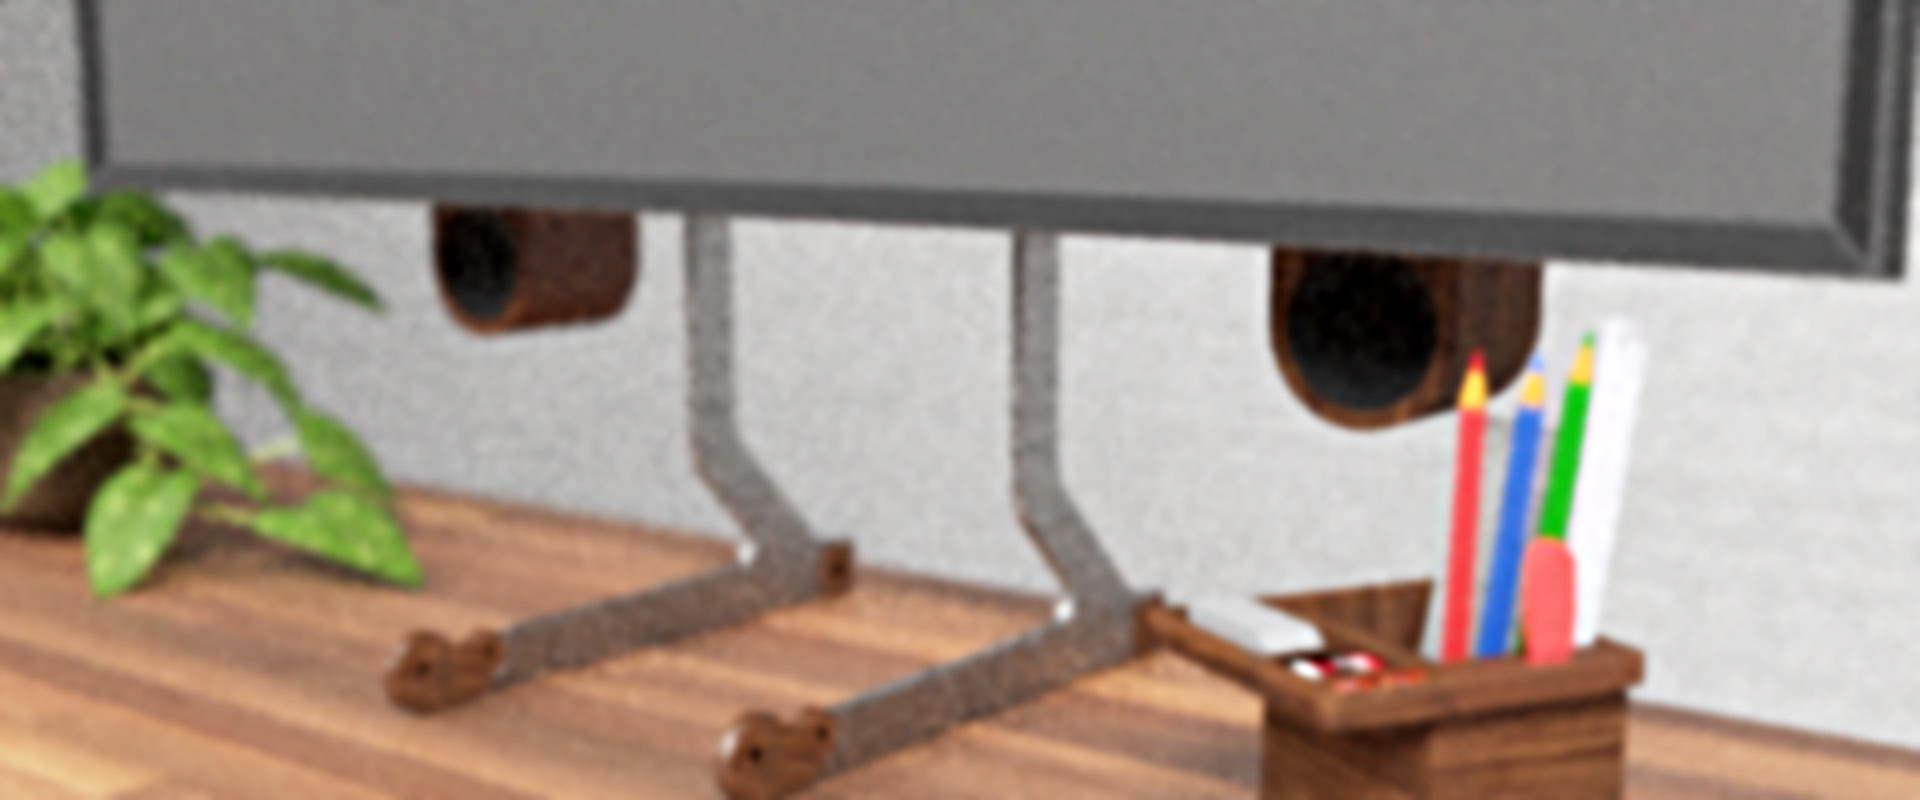
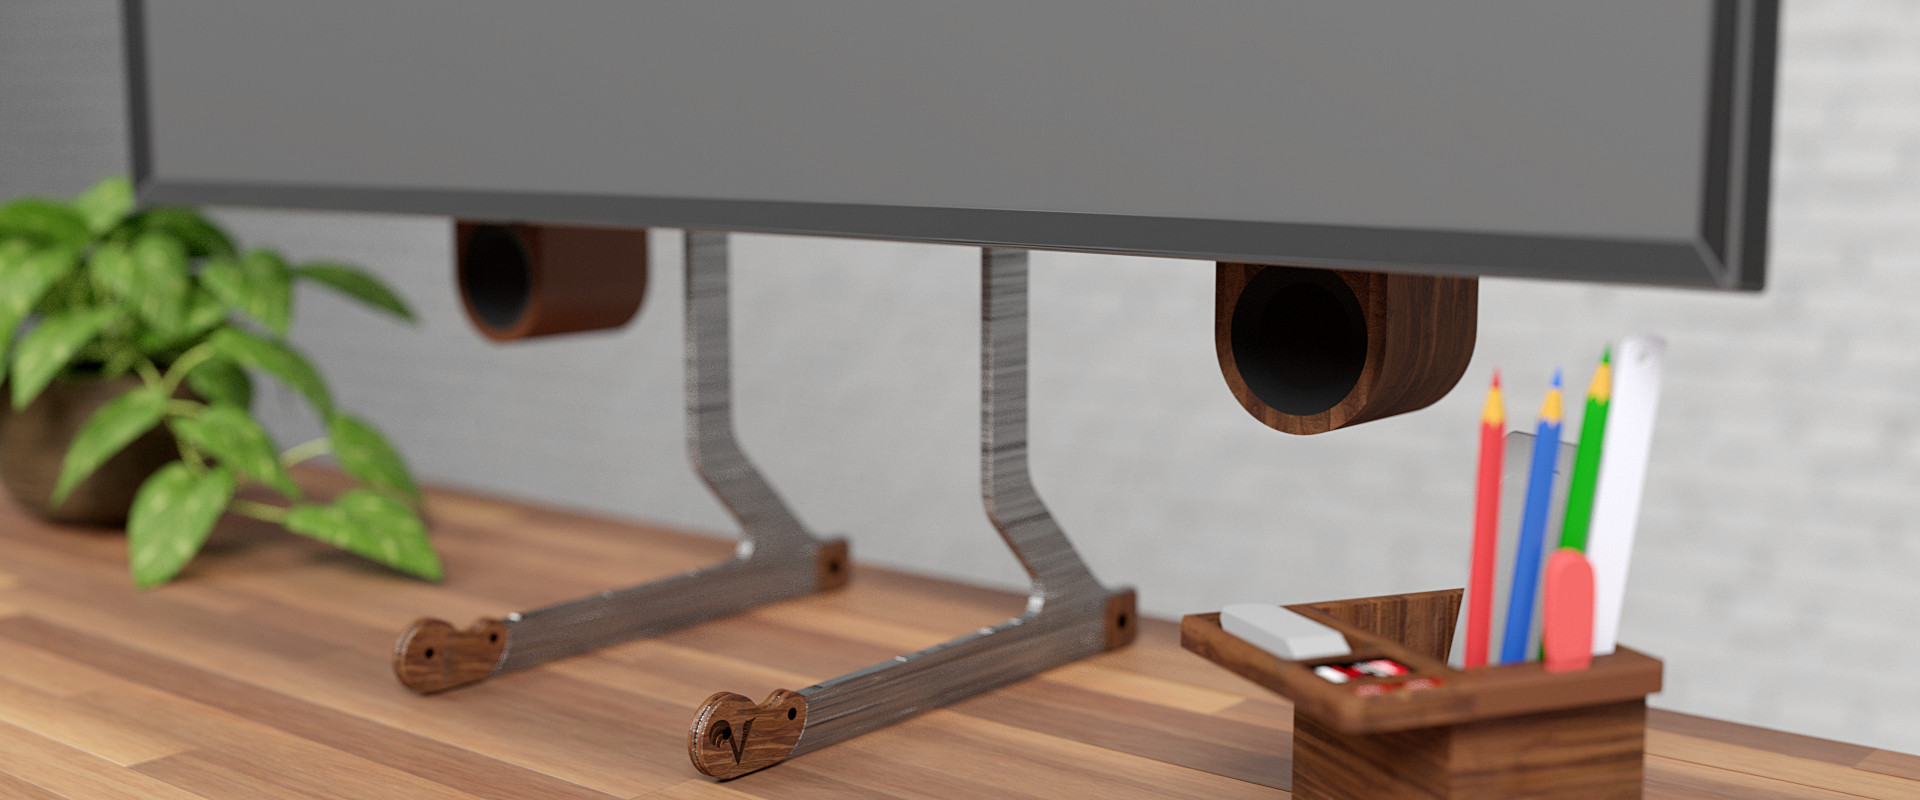
Added rendered quality teaser picture

diff --git a/_layouts/home.html b/_layouts/home.html
@@ -800,7 +800,11 @@
   <img class="img-responsive mobile-full-width-img" src="{{site.baseurl}}/images/home/quality-teaser-m.jpg" alt="">
   <div class="full-width-content">
     <div class="container">
-      <h2 class="title">Quality by Design:<br><small>Stylish. Modular. Durable.</small></h2>
+      <h2 class="title">
+        Quality by Design
+        <br>
+        <small>Solid. Stylish. Modular.</small>
+      </h2>
     </div>
   </div>
 </div>

diff --git a/_sass/layout/_navbar.scss b/_sass/layout/_navbar.scss
@@ -37,7 +37,11 @@
 
   #nav-buy-button {
     background-color: $brand-accent;
-    box-shadow: 0 2px 2px 0 rgba(255, 171, 64,.14), 0 3px 1px -2px rgba(255, 171, 64,.2), 0 1px 5px 0 rgba(255, 171, 64,.12)
+    box-shadow: 0 2px 2px 0 rgba(255, 171, 64,.14), 0 3px 1px -2px rgba(255, 171, 64,.2), 0 1px 5px 0 rgba(255, 171, 64,.12);
+
+    @include media-query($on-mobile) {
+      max-width: 121px; 
+    }
   }
 }
 

diff --git a/_sass/components/_feature-full-width-image.scss b/_sass/components/_feature-full-width-image.scss
@@ -40,7 +40,6 @@
       font-size: 74px;
       color: rgba(0, 0, 0, 0.87);
       text-align: center;
-      font-weight: bold;
       margin-bottom: 5px;
 
       @include media-query($on-mobile) {
